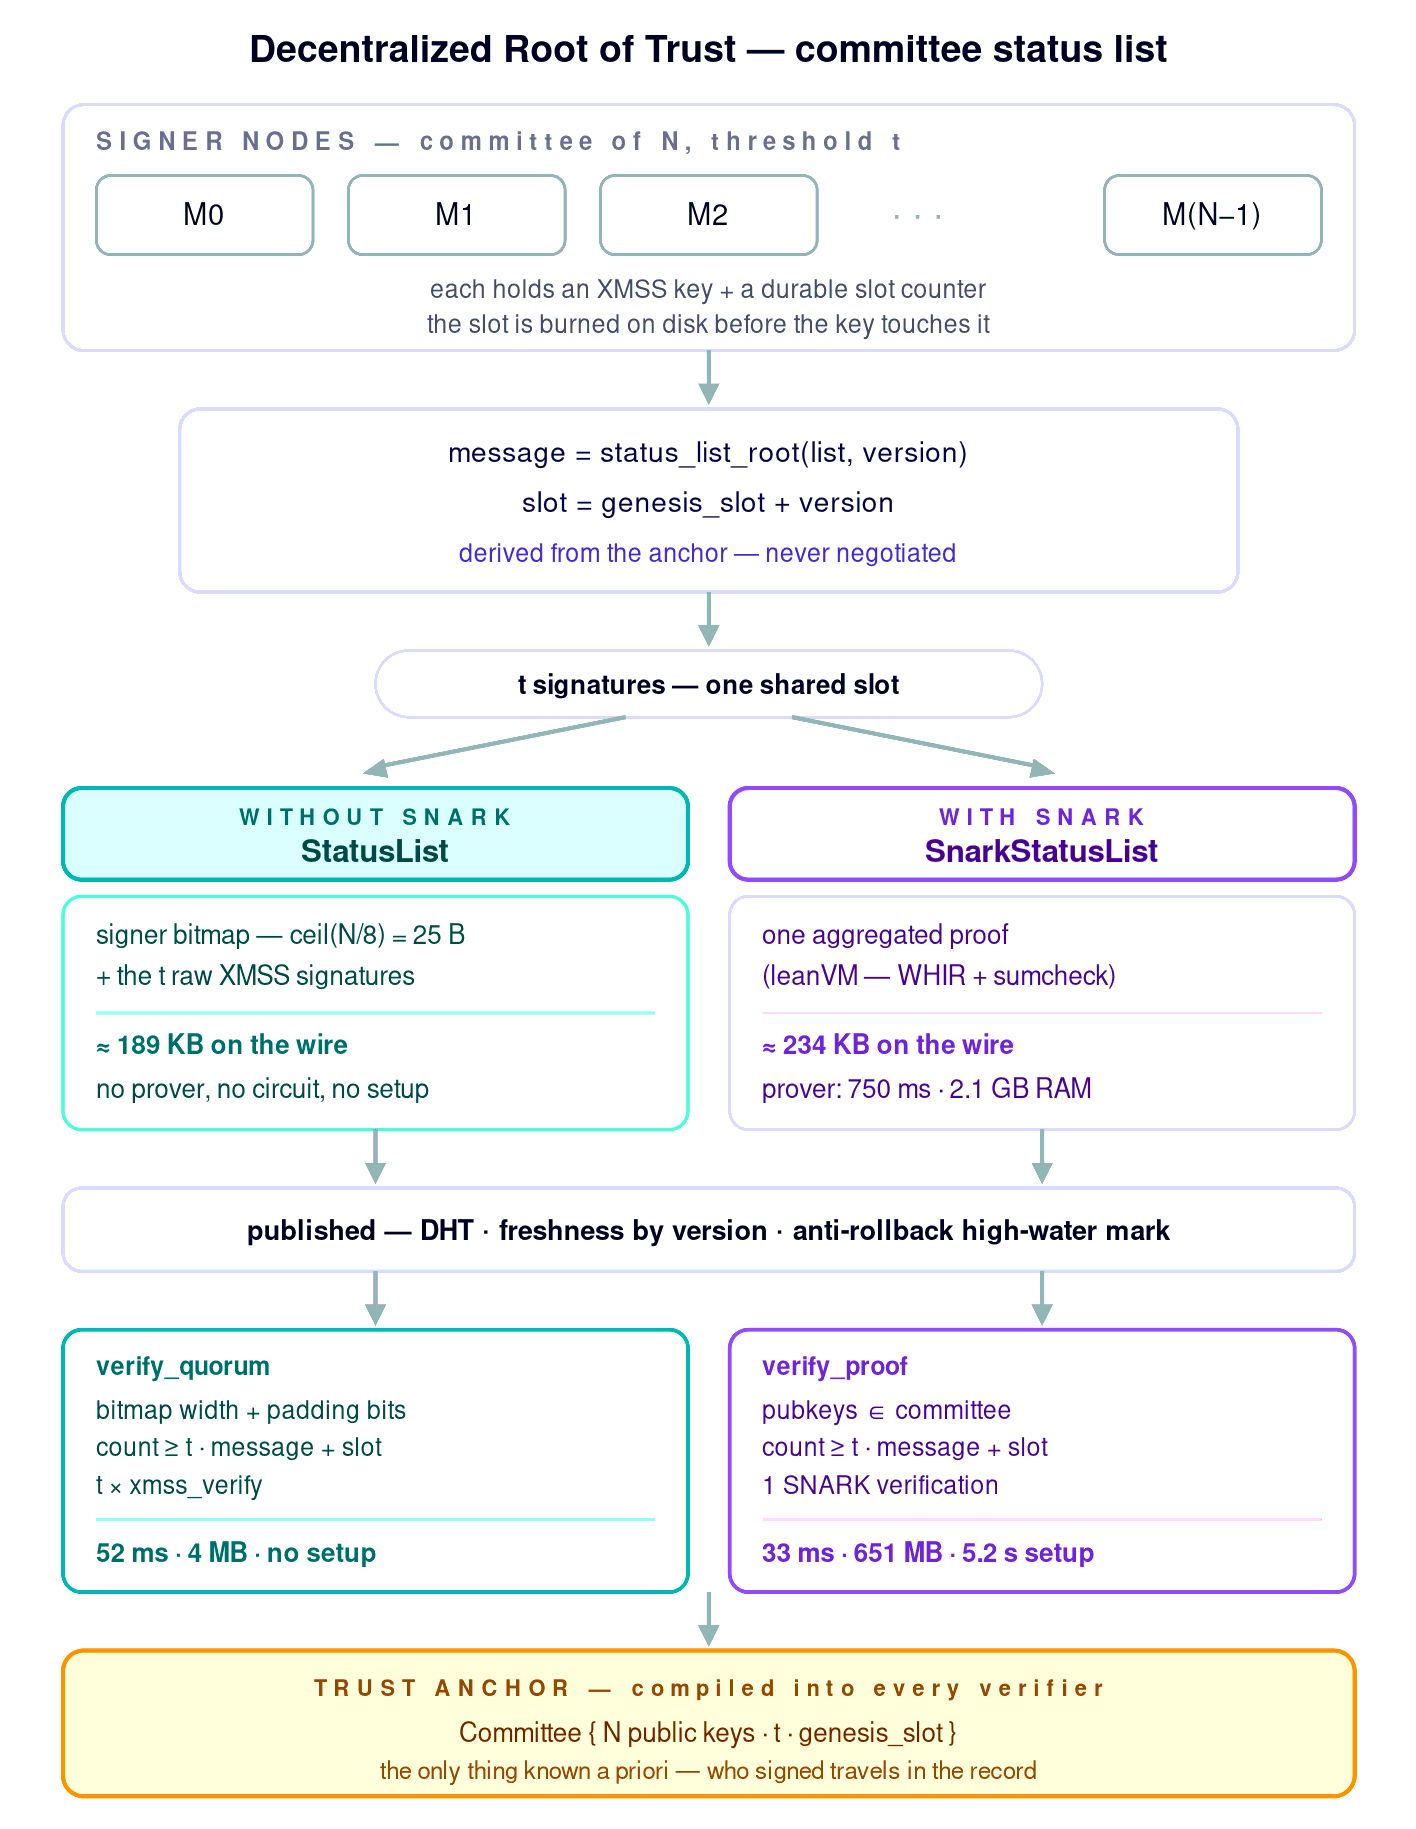
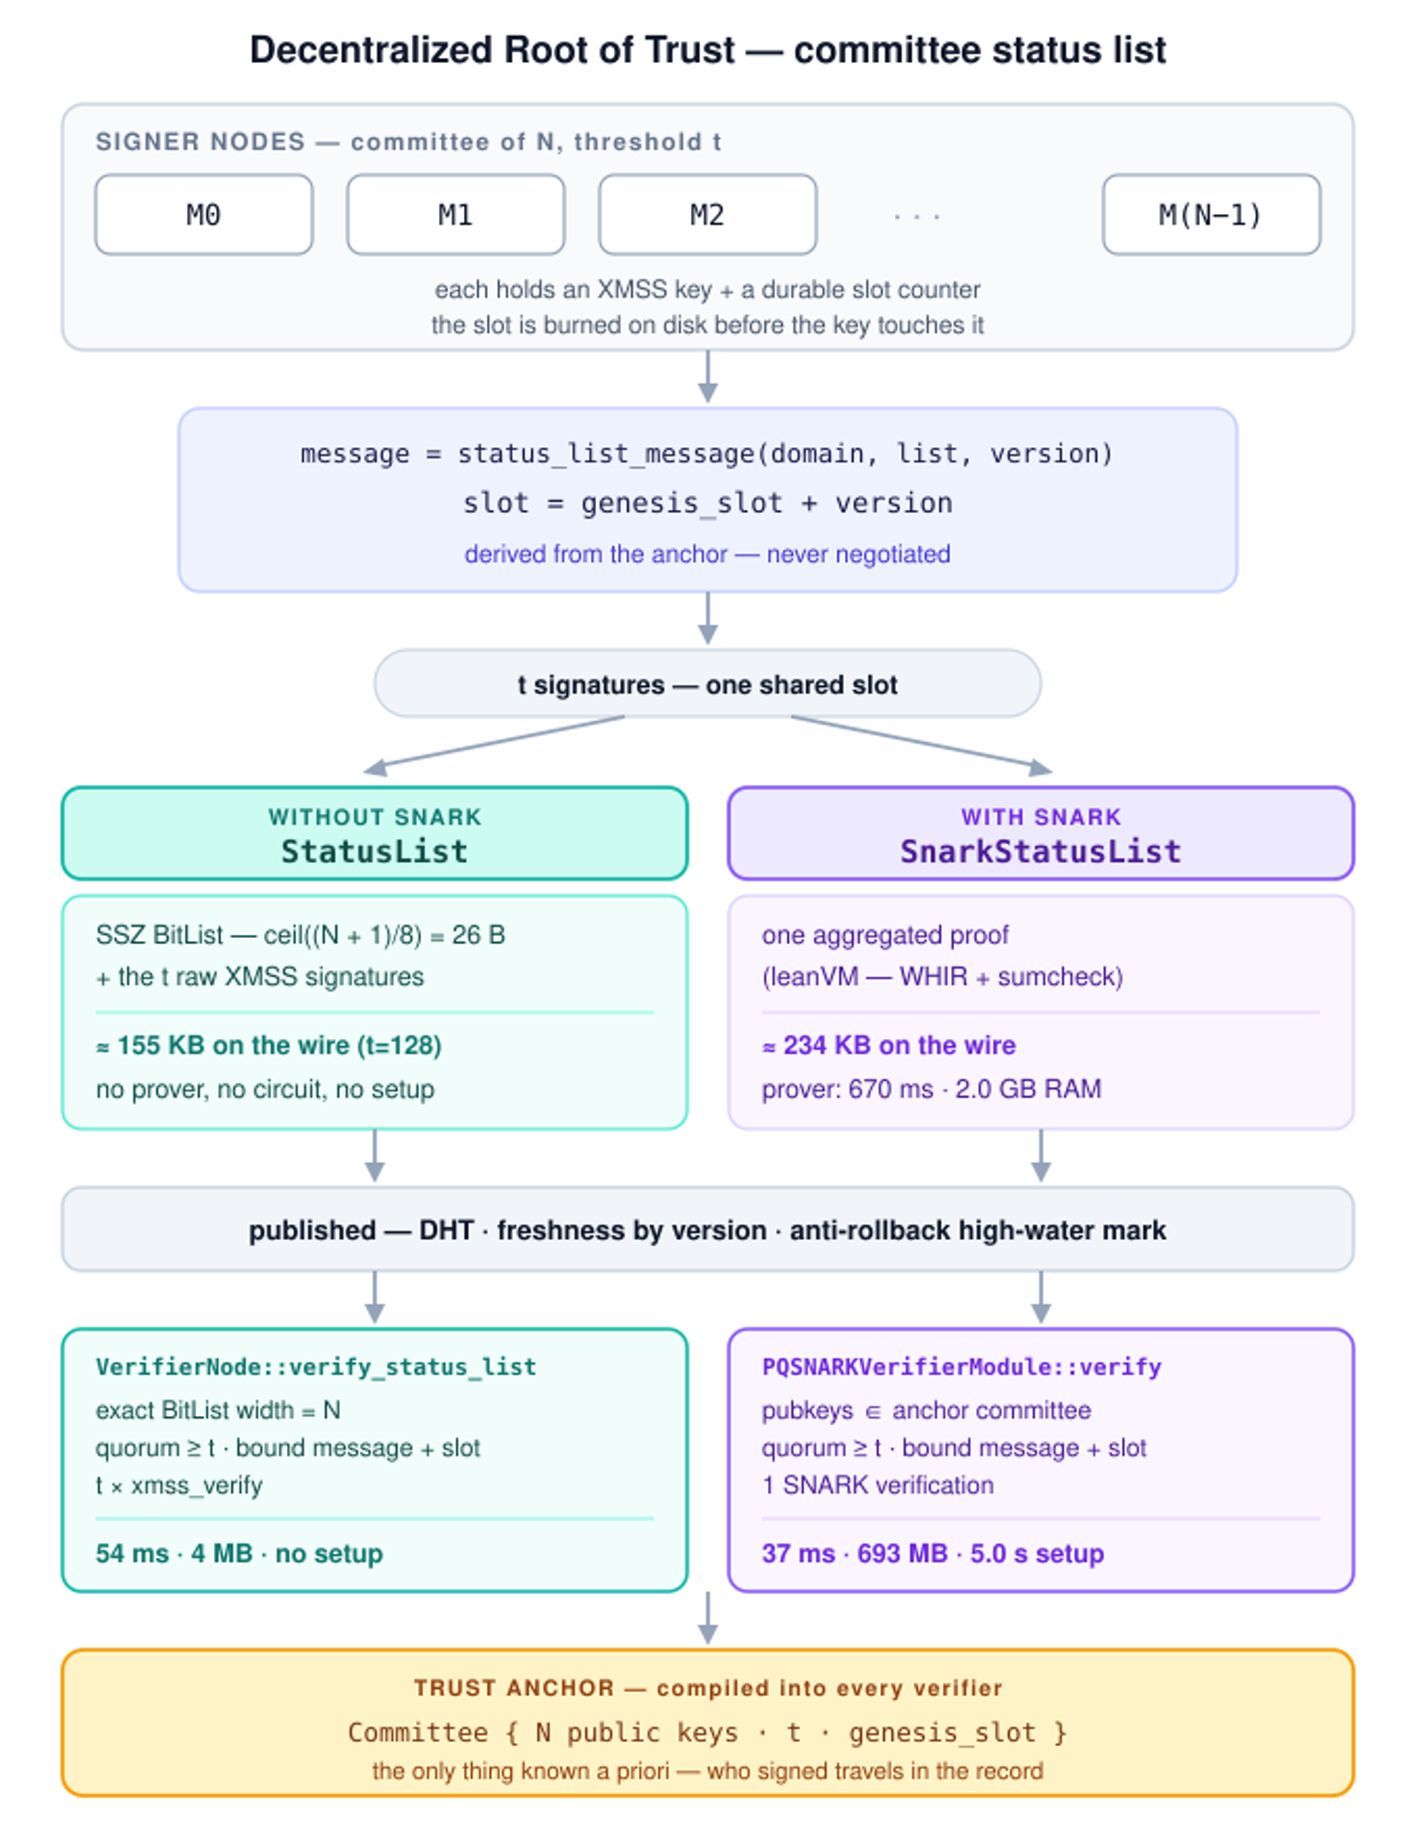
docs: align architecture and benchmarks with current implementation
- include the committee domain in the signed status-list message
  - use the current raw and SNARK verifier entry-point names
  - document SSZ BitList semantics instead of explicit padding checks
  - refresh record sizes, timings, and memory measurements
  - update the mutation count from 24 to 28
  - align AGENTS.md with the benchmark script defaults
  - regenerate the architecture PNG from its SVG source

diff --git a/README.md b/README.md
@@ -199,8 +199,8 @@ before leanVM v0.9 are not compatible and must be regenerated.
 |---|---|---|
 | evidence | the `t` raw signatures + a signer bitmap | one aggregated SNARK proof |
 | naming the signers | 26 B bitmap (`N + 1` bits) | public keys inside the aggregate |
-| prover | none | 750 ms · 2.1 GB |
-| verifier setup | none | ~5 s · 651 MB resident |
+| prover | none | 670 ms · 2.0 GB peak |
+| verifier setup | none | ~5.0 s · 676 MB resident |
 | verify | `t` × `xmss_verify`, linear in `t` | one check, flat in `t` |
 | payload at `t=128` | ≈ 155 KB | ≈ 234 KB |
 | entry point | `VerifierNode::verify_status_list` | `PQSNARKVerifierModule::verify` |
@@ -901,14 +901,16 @@ ever started accepting one — which is the same drift that once removed the slo
 check from the verifier wrapper.
 
 Every check named in this section has a mutant in `tools/mutate.py`, which
-deletes one and reports which test complains. 24 of them — it was 25 until the
-signer bitmap became an SSZ `BitList` and one of the checks stopped being a check
-at all. The last full sweep caught every mutant; the patterns have been updated
-since and verified to still match their targets, but the sweep itself has not
-been re-run. Its findings so far: three checks that no test reached at all
-(`verify_status_list`'s padding bits, the bitmap width, and `t == 0`), plus a
-padding test that had been locating the bitmap by searching a signature blob for
-a byte value.
+deletes one and reports which test complains. There are currently 28. One former
+padding-bits mutant disappeared when the signer bitmap became an SSZ `BitList`:
+excess indices are now unrepresentable, so there is no longer a hand-written
+padding check to delete. The last full sweep caught every then-current mutant;
+the present patterns have since been updated and verified to still match their
+targets, but the full 28-mutant sweep itself has not been re-run. Earlier sweeps
+exposed three checks that no test reached (`verify_status_list`'s former padding
+check, the bitmap width, and `t == 0`), plus a padding test that located the bitmap
+by searching a signature blob for a byte value. The current `BitList` structure
+and tests address those findings.
 
 ---
 

diff --git a/AGENTS.md b/AGENTS.md
@@ -35,7 +35,7 @@ cargo run --release --bin prover   -- [outdir]         # split: aggregate, write
 cargo run --release --bin verifier -- [dir]            # split: verify-only, exits non-zero on any violated expectation
 cargo run --release --bin signer                       # split: ONE member, one signature + durable slot burn per round
 cargo test                                             # 66 unit + 10 integration tests; 75 run + 1 ignored
-./benchmark.sh                                         # RUNS=30 WARMUP=3 TARGETS="prover verifier" ./benchmark.sh
+./benchmark.sh                                         # defaults: RUNS=20 WARMUP=2 TARGETS="signer prover verifier raw_agg"
 tools/mutate.py                                        # mutation testing: 28 checks, each must be caught by a test
 ./demo/docker/demo.sh {raw|snark} up                   # container demo: 1 bootstrap + 10 members, N=10 t=7
 ./demo/docker/demo.sh {raw|snark} round                # node A requests a credential, then verifies the record
